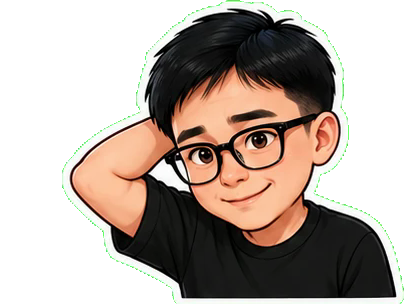
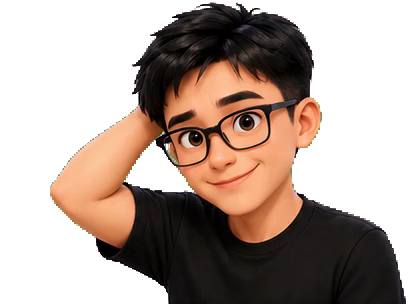
feat(risecore): 3D Pixar-style characters and a café background
- Cơm and Mia are now 3D Pixar-style half-body sheets (no sticker
  outline); cut-sheet.sh gains an optional despill step for the green
  fringe on hair.
- The subtitle panel is always visible and overlaps the characters'
  waist so the cut edge is hidden; characters are larger.
- New CafeBackground: blurred, code-drawn coffee shop with a dark top
  overlay so card text stays readable.
- Lesson 1 re-uploaded as drafts v3 and v4; prompts and CLAUDE.md
  describe the current character looks.

diff --git a/risecore/video/src/english/CafeBackground.tsx b/risecore/video/src/english/CafeBackground.tsx
@@ -1,0 +1,117 @@
+import React from 'react';
+import {AbsoluteFill, useCurrentFrame} from 'remotion';
+
+// Bối cảnh quán cà phê vẽ bằng hình khối rồi làm nhòe như ảnh chụp xoá phông, để hợp với nhân vật 3D
+// mà không cần ảnh AI. Lớp phủ tối phía trên giữ chữ trắng/vàng của các card dễ đọc.
+
+const BOKEH = [
+  {x: 140, y: 380, r: 46, c: '#FFD27A'},
+  {x: 930, y: 300, r: 60, c: '#FFC15E'},
+  {x: 760, y: 560, r: 34, c: '#FFE2A8'},
+  {x: 260, y: 760, r: 54, c: '#FFB547'},
+  {x: 980, y: 820, r: 40, c: '#FFD27A'},
+  {x: 520, y: 240, r: 28, c: '#FFF0C8'},
+  {x: 60, y: 1040, r: 38, c: '#FFC15E'},
+  {x: 640, y: 960, r: 30, c: '#FFE2A8'},
+];
+
+const Pendant: React.FC<{x: number; len: number}> = ({x, len}) => (
+  <>
+    <div style={{position: 'absolute', left: x - 3, top: 0, width: 6, height: len, background: '#2A1D17'}} />
+    <div
+      style={{
+        position: 'absolute',
+        left: x - 70,
+        top: len - 10,
+        width: 140,
+        height: 80,
+        borderRadius: '70px 70px 12px 12px',
+        background: '#C9873E',
+      }}
+    />
+    <div
+      style={{
+        position: 'absolute',
+        left: x - 160,
+        top: len + 20,
+        width: 320,
+        height: 320,
+        borderRadius: '50%',
+        background: 'radial-gradient(circle, rgba(255,214,140,0.9) 0%, rgba(255,190,100,0.35) 35%, rgba(255,190,100,0) 70%)',
+      }}
+    />
+  </>
+);
+
+const Plant: React.FC<{x: number; y: number; s: number}> = ({x, y, s}) => (
+  <div style={{position: 'absolute', left: x, top: y, width: 260 * s, height: 360 * s}}>
+    {[
+      [20, 40, 140, 200, '#3F8A55'],
+      [100, 0, 150, 220, '#4E9D62'],
+      [60, 110, 170, 200, '#356F47'],
+    ].map(([l, t, w, h, c]) => (
+      <div key={`${l}-${t}`} style={{position: 'absolute', left: Number(l) * s, top: Number(t) * s, width: Number(w) * s, height: Number(h) * s, borderRadius: '50%', background: String(c)}} />
+    ))}
+    <div style={{position: 'absolute', left: 70 * s, top: 270 * s, width: 120 * s, height: 90 * s, borderRadius: `0 0 ${30 * s}px ${30 * s}px`, background: '#B8693A'}} />
+  </div>
+);
+
+export const CafeBackground: React.FC = () => {
+  const frame = useCurrentFrame();
+  return (
+    <AbsoluteFill style={{backgroundColor: '#2B1E18', overflow: 'hidden'}}>
+      <AbsoluteFill style={{filter: 'blur(16px)', scale: '1.06'}}>
+        {/* tường gỗ ấm + sàn */}
+        <AbsoluteFill style={{background: 'linear-gradient(180deg, #5A3D2E 0%, #47301F 55%, #2E1F16 100%)'}} />
+        {/* cửa sổ lớn có ánh sáng ban ngày */}
+        <div style={{position: 'absolute', left: 560, top: 180, width: 460, height: 720, borderRadius: 20, background: '#FFE9C2'}} />
+        <div style={{position: 'absolute', left: 560, top: 180, width: 460, height: 720, borderRadius: 20, background: 'linear-gradient(180deg, #CFE8F2 0%, #FFE9C2 70%)', opacity: 0.85}} />
+        <div style={{position: 'absolute', left: 783, top: 180, width: 14, height: 720, background: '#4A3226'}} />
+        <div style={{position: 'absolute', left: 560, top: 520, width: 460, height: 14, background: '#4A3226'}} />
+        {/* kệ cốc bên trái */}
+        {[360, 560].map((y) => (
+          <React.Fragment key={y}>
+            <div style={{position: 'absolute', left: 40, top: y, width: 420, height: 18, background: '#7A5134'}} />
+            {[70, 160, 250, 340].map((x, i) => (
+              <div
+                key={x}
+                style={{
+                  position: 'absolute',
+                  left: x,
+                  top: y - 70,
+                  width: 64,
+                  height: 70,
+                  borderRadius: '8px 8px 18px 18px',
+                  background: ['#F2E6D8', '#E9A55B', '#7FB7C9', '#F2E6D8'][i],
+                }}
+              />
+            ))}
+          </React.Fragment>
+        ))}
+        <Pendant x={300} len={170} />
+        <Pendant x={760} len={110} />
+        <Plant x={-40} y={760} s={1.2} />
+        <Plant x={860} y={900} s={1} />
+        {/* quầy gỗ phía sau nhân vật */}
+        <div style={{position: 'absolute', left: 0, right: 0, top: 1290, height: 700, background: 'linear-gradient(180deg, #8A5A3A 0%, #6B4429 12%, #4A2F1E 100%)'}} />
+        {BOKEH.map((b, i) => (
+          <div
+            key={i}
+            style={{
+              position: 'absolute',
+              left: b.x - b.r + Math.sin(frame / 60 + i) * 12,
+              top: b.y - b.r + Math.cos(frame / 75 + i) * 10,
+              width: b.r * 2,
+              height: b.r * 2,
+              borderRadius: '50%',
+              background: b.c,
+              opacity: 0.55,
+            }}
+          />
+        ))}
+      </AbsoluteFill>
+      {/* phủ tối phần trên cho chữ của card dễ đọc, nhạt dần xuống chỗ nhân vật */}
+      <AbsoluteFill style={{background: 'linear-gradient(180deg, rgba(14,18,32,0.72) 0%, rgba(14,18,32,0.55) 38%, rgba(14,18,32,0.15) 62%, rgba(14,18,32,0.35) 100%)'}} />
+    </AbsoluteFill>
+  );
+};

diff --git a/risecore/video/src/english/LessonVideo.tsx b/risecore/video/src/english/LessonVideo.tsx
@@ -2,9 +2,9 @@ import React from 'react';
 import {AbsoluteFill, CalculateMetadataFunction, interpolate, Sequence, staticFile, useCurrentFrame, useVideoConfig} from 'remotion';
 import {Audio} from '@remotion/media';
 import '../fonts';
-import {Background} from '../components/Background';
 import {FONT} from '../fonts';
 import {C, clamp} from '../theme';
+import {CafeBackground} from './CafeBackground';
 import {CtaCard, HookCard, PhraseCard, QuizCard} from './cards';
 import {Stickers} from './Stickers';
 import {buildTimeline, Lesson, Manifest, TimedLine, TimedScene, Timeline} from './timeline';
@@ -43,31 +43,37 @@ const SceneCard: React.FC<{s: TimedScene; phraseIndex: number; phraseCount: numb
 const speaking = (timeline: Timeline, frame: number) =>
   timeline.scenes.flatMap((s) => s.lines).find((l) => frame >= l.from && frame < l.from + l.dur);
 
+// Khung phụ đề luôn hiện và nền đặc: ảnh nhân vật bị cắt ngang ở thắt lưng, khung này che đường cắt
+// (nhân vật như đứng sau quầy). Giữa 2 câu thì khung trống chứ không biến mất.
 const Subtitle: React.FC<{timeline: Timeline}> = ({timeline}) => {
   const frame = useCurrentFrame();
   const line = speaking(timeline, frame);
-  if (!line) return null;
-  const color = line.speaker === 'com' ? C.blue : C.mint;
+  const color = line ? (line.speaker === 'com' ? C.blue : C.mint) : 'rgba(255,255,255,0.15)';
   return (
     <div
       style={{
         position: 'absolute',
-        left: 80,
-        right: 80,
+        left: 60,
+        right: 60,
         top: 1380,
+        minHeight: 190,
         padding: '20px 32px',
         borderRadius: 28,
-        background: 'rgba(14,18,32,0.88)',
+        background: '#141A2E',
         border: `4px solid ${color}`,
+        boxShadow: '0 -12px 40px rgba(0,0,0,0.35)',
         fontFamily: FONT,
         color: C.white,
         textAlign: 'center',
-        opacity: interpolate(frame, [line.from, line.from + 5], [0, 1], clamp),
       }}
     >
-      <div style={{fontWeight: 800, fontSize: 34, color}}>{line.speaker === 'com' ? 'Cơm' : 'Mia'}</div>
-      <div style={{fontWeight: 800, fontSize: 48, lineHeight: 1.25}}>{line.say}</div>
-      {line.vi ? <div style={{marginTop: 8, fontWeight: 700, fontSize: 40, lineHeight: 1.3, color: C.yellow}}>{line.vi}</div> : null}
+      {line ? (
+        <div style={{opacity: interpolate(frame, [line.from, line.from + 5], [0, 1], clamp)}}>
+          <div style={{fontWeight: 800, fontSize: 34, color}}>{line.speaker === 'com' ? 'Cơm' : 'Mia'}</div>
+          <div style={{fontWeight: 800, fontSize: 48, lineHeight: 1.25}}>{line.say}</div>
+          {line.vi ? <div style={{marginTop: 8, fontWeight: 700, fontSize: 40, lineHeight: 1.3, color: C.yellow}}>{line.vi}</div> : null}
+        </div>
+      ) : null}
     </div>
   );
 };
@@ -80,7 +86,7 @@ export const LessonVideo: React.FC<LessonProps> = ({lesson, timeline}) => {
   const reveal = quiz?.lines[1];
   return (
     <AbsoluteFill>
-      <Background a={C.mint} b={C.blue} />
+      <CafeBackground />
       <div
         style={{
           position: 'absolute',

diff --git a/risecore/video/src/english/Stickers.tsx b/risecore/video/src/english/Stickers.tsx
@@ -5,10 +5,11 @@ import type {Pose, Speaker, Timeline} from './timeline';
 
 // Nhân vật là ảnh sticker (public/characters/<ai>/<biểu cảm>.png, cắt bằng scripts/cut-sheet.sh).
 // Mọi ảnh cùng khung nên đổi biểu cảm không làm nhân vật nhảy chỗ.
-const W = 560;
+// Mỗi ô có lề trống 2 bên nên 2 ảnh được phép chồng nhẹ vào nhau ở giữa
+const W = 640;
 const H = Math.round((W * 305) / 410); // tỉ lệ 1 ô sau khi cắt
-const BOTTOM = 1372; // ngay trên khung phụ đề (y 1380)
-const CENTER: Record<Speaker, number> = {com: 280, mia: 800};
+const BOTTOM = 1410; // lấn xuống dưới khung phụ đề (y 1380) để khung che đường cắt ngang thắt lưng
+const CENTER: Record<Speaker, number> = {com: 270, mia: 810};
 
 type State = {pose: Pose; since: number; talking: boolean};
 

diff --git a/risecore/video/characters/PROMPTS.md b/risecore/video/characters/PROMPTS.md
@@ -1,22 +1,29 @@
 # Prompt vẽ nhân vật (series Tiếng Anh mỗi ngày)
 
-Vẽ bằng ChatGPT (hoặc Gemini) **trong cùng một cuộc trò chuyện** để 2 nhân vật cùng nét vẽ.
+Kiểu đã chốt: **hoạt hình 3D kiểu Pixar, nửa người (từ thắt lưng trở lên), mặt giống bộ sticker gốc**.
+Vẽ bằng ChatGPT (hoặc Gemini) **trong cùng một cuộc trò chuyện** để 2 nhân vật cùng phong cách.
 Ảnh gửi lại cho Claude Code: Claude cắt từng ô, xoá nền xanh, lưu thành
-`public/characters/<nhân vật>/<biểu cảm>.png`.
+`public/characters/<nhân vật>/<biểu cảm>.png`, rồi đặt lên ảnh bối cảnh.
 
-Vì sao nền xanh lá thuần (#00FF00): nhân vật có viền trắng kiểu sticker, nền trắng sẽ dính vào viền
-nên không tách được. Vì sao không có chữ trong ảnh: chữ do AI vẽ hay sai chính tả, video tự thêm chữ.
+Vì sao nhân vật vẽ trên nền xanh lá thuần (#00FF00) thay vì vẽ luôn trong bối cảnh: để tách nhân vật ra,
+dùng 1 bối cảnh chung cho mọi bài, và đổi biểu cảm mà nhân vật không nhảy chỗ.
+Vì sao không có chữ trong ảnh: chữ do AI vẽ hay sai chính tả, video tự thêm chữ.
+Thứ tự 12 ô phải giữ nguyên (khớp `scripts/cut-sheet.sh`): wave talk cheer embarrassed wow think thumbs
+point laugh confused announce clap.
 
-## 1. Cơm — nhân vật chính (đính kèm ảnh bộ sticker gốc khi gửi prompt)
+## 1. Cơm — nhân vật chính (đính kèm ảnh bộ sticker gốc của Cơm)
 
 ```
-Use the attached sticker sheet as the character reference. Draw the SAME person (same face, black
-hair, black glasses, black T-shirt, wristwatch) in the SAME art style: semi-realistic painted chibi
-sticker, soft shading, clean thick white sticker outline around the figure.
+Create a 3D animated character in Pixar / Disney animation style, based on the person in the attached
+sticker sheet: keep his face (face shape, eyes, smile), his short black hair, black rectangular
+glasses, plain black T-shirt and wristwatch. Normal human proportions (not chibi), a friendly young
+Vietnamese man. Soft cinematic studio lighting, high detail skin and hair. NO white outline, NO
+sticker border.
 
-Make a 3 columns x 4 rows grid of 12 stickers, waist-up, character centered in each cell, all the same
-size and the same camera distance, facing the viewer. Background of the WHOLE image: flat solid pure
-green #00FF00, no gradient, no shadow on the background, no text, no symbols, no extra objects.
+Make a 3 columns x 4 rows grid of 12 images of this same character, waist-up, centered in each cell,
+same size, same camera distance and same lighting in every cell, facing the viewer. Background of the
+WHOLE image: flat solid pure green #00FF00, no gradient, no floor, no shadow on the background, no text,
+no logos, no extra objects.
 
 Row 1: (1) waving hello, friendly smile  (2) talking, mouth open mid-sentence, one hand open
        (3) cheering happily, laughing (waving or both fists up)
@@ -29,11 +36,22 @@ Row 4: (10) confused, head tilted  (11) cupping one hand near his mouth as if an
 Square image, highest resolution.
 ```
 
-## 2. Mia (gửi tiếp trong cùng cuộc trò chuyện)
+## 2. Mia (gửi tiếp trong cùng cuộc trò chuyện, đính kèm ảnh bảng sticker cũ của Mia)
+
+Bản đang dùng (`characters/source/mia-sheet.webp`) là cô gái tóc búi, áo thun trắng — khác thiết kế
+khăn/kính râm ban đầu. Vẽ thêm thì đính kèm chính bảng đó và dùng mô tả dưới đây cho khớp.
 
 ```
-Now create a NEW character in exactly the same art style, same grid layout, same 12 poses in the same
-order, same green #00FF00 background, no text:
-Mia, a cheerful young American woman around 20, blonde hair in a high ponytail with a small pink bow,
-blue eyes, light freckles, mint green T-shirt, small silver earrings. Friendly and energetic.
+Now do the same for the girl in the attached image: same 3D Pixar / Disney style, same grid layout,
+same 12 poses in the same order, same green #00FF00 background, no outline, no text.
+Keep her look: dark brown hair in a messy high bun with loose strands framing the face, big brown
+eyes, rosy cheeks, small silver hoop earrings, plain off-white T-shirt, no logos. Cheerful and warm.
+```
+
+## 3. Bối cảnh (gửi tiếp trong cùng cuộc trò chuyện)
+
+```
+Now create an empty background in the same 3D Pixar / Disney style: a bright, cozy coffee shop
+interior with plants and warm lights, slightly blurred (shallow depth of field), no people, no text,
+no logos. Vertical 9:16 image, highest resolution.
 ```

diff --git a/risecore/CLAUDE.md b/risecore/CLAUDE.md
@@ -66,14 +66,18 @@ Tên file đặt theo ngày (`2026-11-05-ngay-tap-lung.mp4`) vì hàng đợi đ
   trong video, lời thoại hay caption; kêu gọi chỉ nói "Follow để học bài tiếp theo".
 - Trình độ mới bắt đầu (trẻ em + người lớn mất gốc), sau này tăng dần. ~45–60 giây/bài.
 - **Lời thoại 100% tiếng Anh**, phụ đề tiếng Việt (màu vàng) dưới từng câu. Coach Tạ và Tí không xuất hiện.
-- Nhân vật là **ảnh sticker vẽ bằng AI** (kiểu chibi tô màu, viền trắng), KHÔNG vẽ bằng SVG:
+- Nhân vật là **ảnh hoạt hình 3D kiểu Pixar, nửa người, vẽ bằng AI** (người dùng không muốn kiểu sticker
+  viền trắng, cũng không vẽ bằng SVG). Mặt Cơm giống bộ sticker gốc của người dùng.
   - **Cơm** — nhân vật chính (tóc đen, kính đen, áo thun đen, đồng hồ), lặp lại câu mẫu. Giọng Liam.
-  - **Mia** — cô gái khăn turban xanh hoa, kính râm, khuyên vàng, áo đấu sọc xanh; nói câu mẫu. Giọng Jessica.
-    Áo đấu trong bảng hiện tại **có logo Nike** → nên vẽ lại bỏ logo trước khi đăng công khai.
+  - **Mia** — cô gái tóc nâu búi rối, mắt nâu to, khuyên bạc, áo thun trắng; nói câu mẫu. Giọng Jessica.
   - Bảng gốc: `video/characters/source/<ai>-sheet.webp` (3×4 ô, nền #00FF00). Prompt: `video/characters/PROMPTS.md`
-    (người dùng vẽ bằng ChatGPT). Cắt: `cd video && scripts/cut-sheet.sh characters/source/<ai>-sheet.webp <ai>`
-    → `public/characters/<ai>/<pose>.png`. 12 pose theo thứ tự ô: wave talk cheer embarrassed wow think thumbs point
-    laugh confused announce clap. Không có pose "đứng yên" (AI vẽ ô đó thành vẫy tay).
+    (người dùng vẽ bằng ChatGPT). Cắt: `cd video && scripts/cut-sheet.sh characters/source/<ai>-sheet.webp <ai> despill`
+    (`despill` xoá viền xanh trên tóc; bỏ nếu nhân vật mặc đồ xanh lá) → `public/characters/<ai>/<pose>.png`.
+    12 pose theo thứ tự ô: wave talk cheer embarrassed wow think thumbs point laugh confused announce clap.
+    Không có pose "đứng yên" (AI vẽ ô đó thành vẫy tay).
+  - Ảnh bị cắt ngang thắt lưng; khung phụ đề luôn hiện và đè lên đáy nhân vật để che đường cắt.
+  - Bối cảnh: quán cà phê xoá phông vẽ bằng code (`src/english/CafeBackground.tsx`: hình khối + blur + lớp phủ
+    tối phía trên cho chữ dễ đọc). Có thể thay bằng ảnh AI (prompt ở PROMPTS.md mục 3) nếu người dùng gửi.
   - Mỗi câu trong kịch bản có `pose` (người nói) và `listen` (người nghe); lúc đếm ngược cả 2 tự chuyển `think`.
 - Cấu trúc: hook (tình huống quen) → 3 câu mẫu (Mia nói, Cơm lặp) → đố vui A/B đếm ngược 3s → kêu gọi bình luận bằng tiếng Anh.
 - Mỗi bài là 1 file kịch bản `video/public/lessons/<ngày>-<slug>.json` (scenes: hook/phrase/quiz/cta, mỗi câu có
